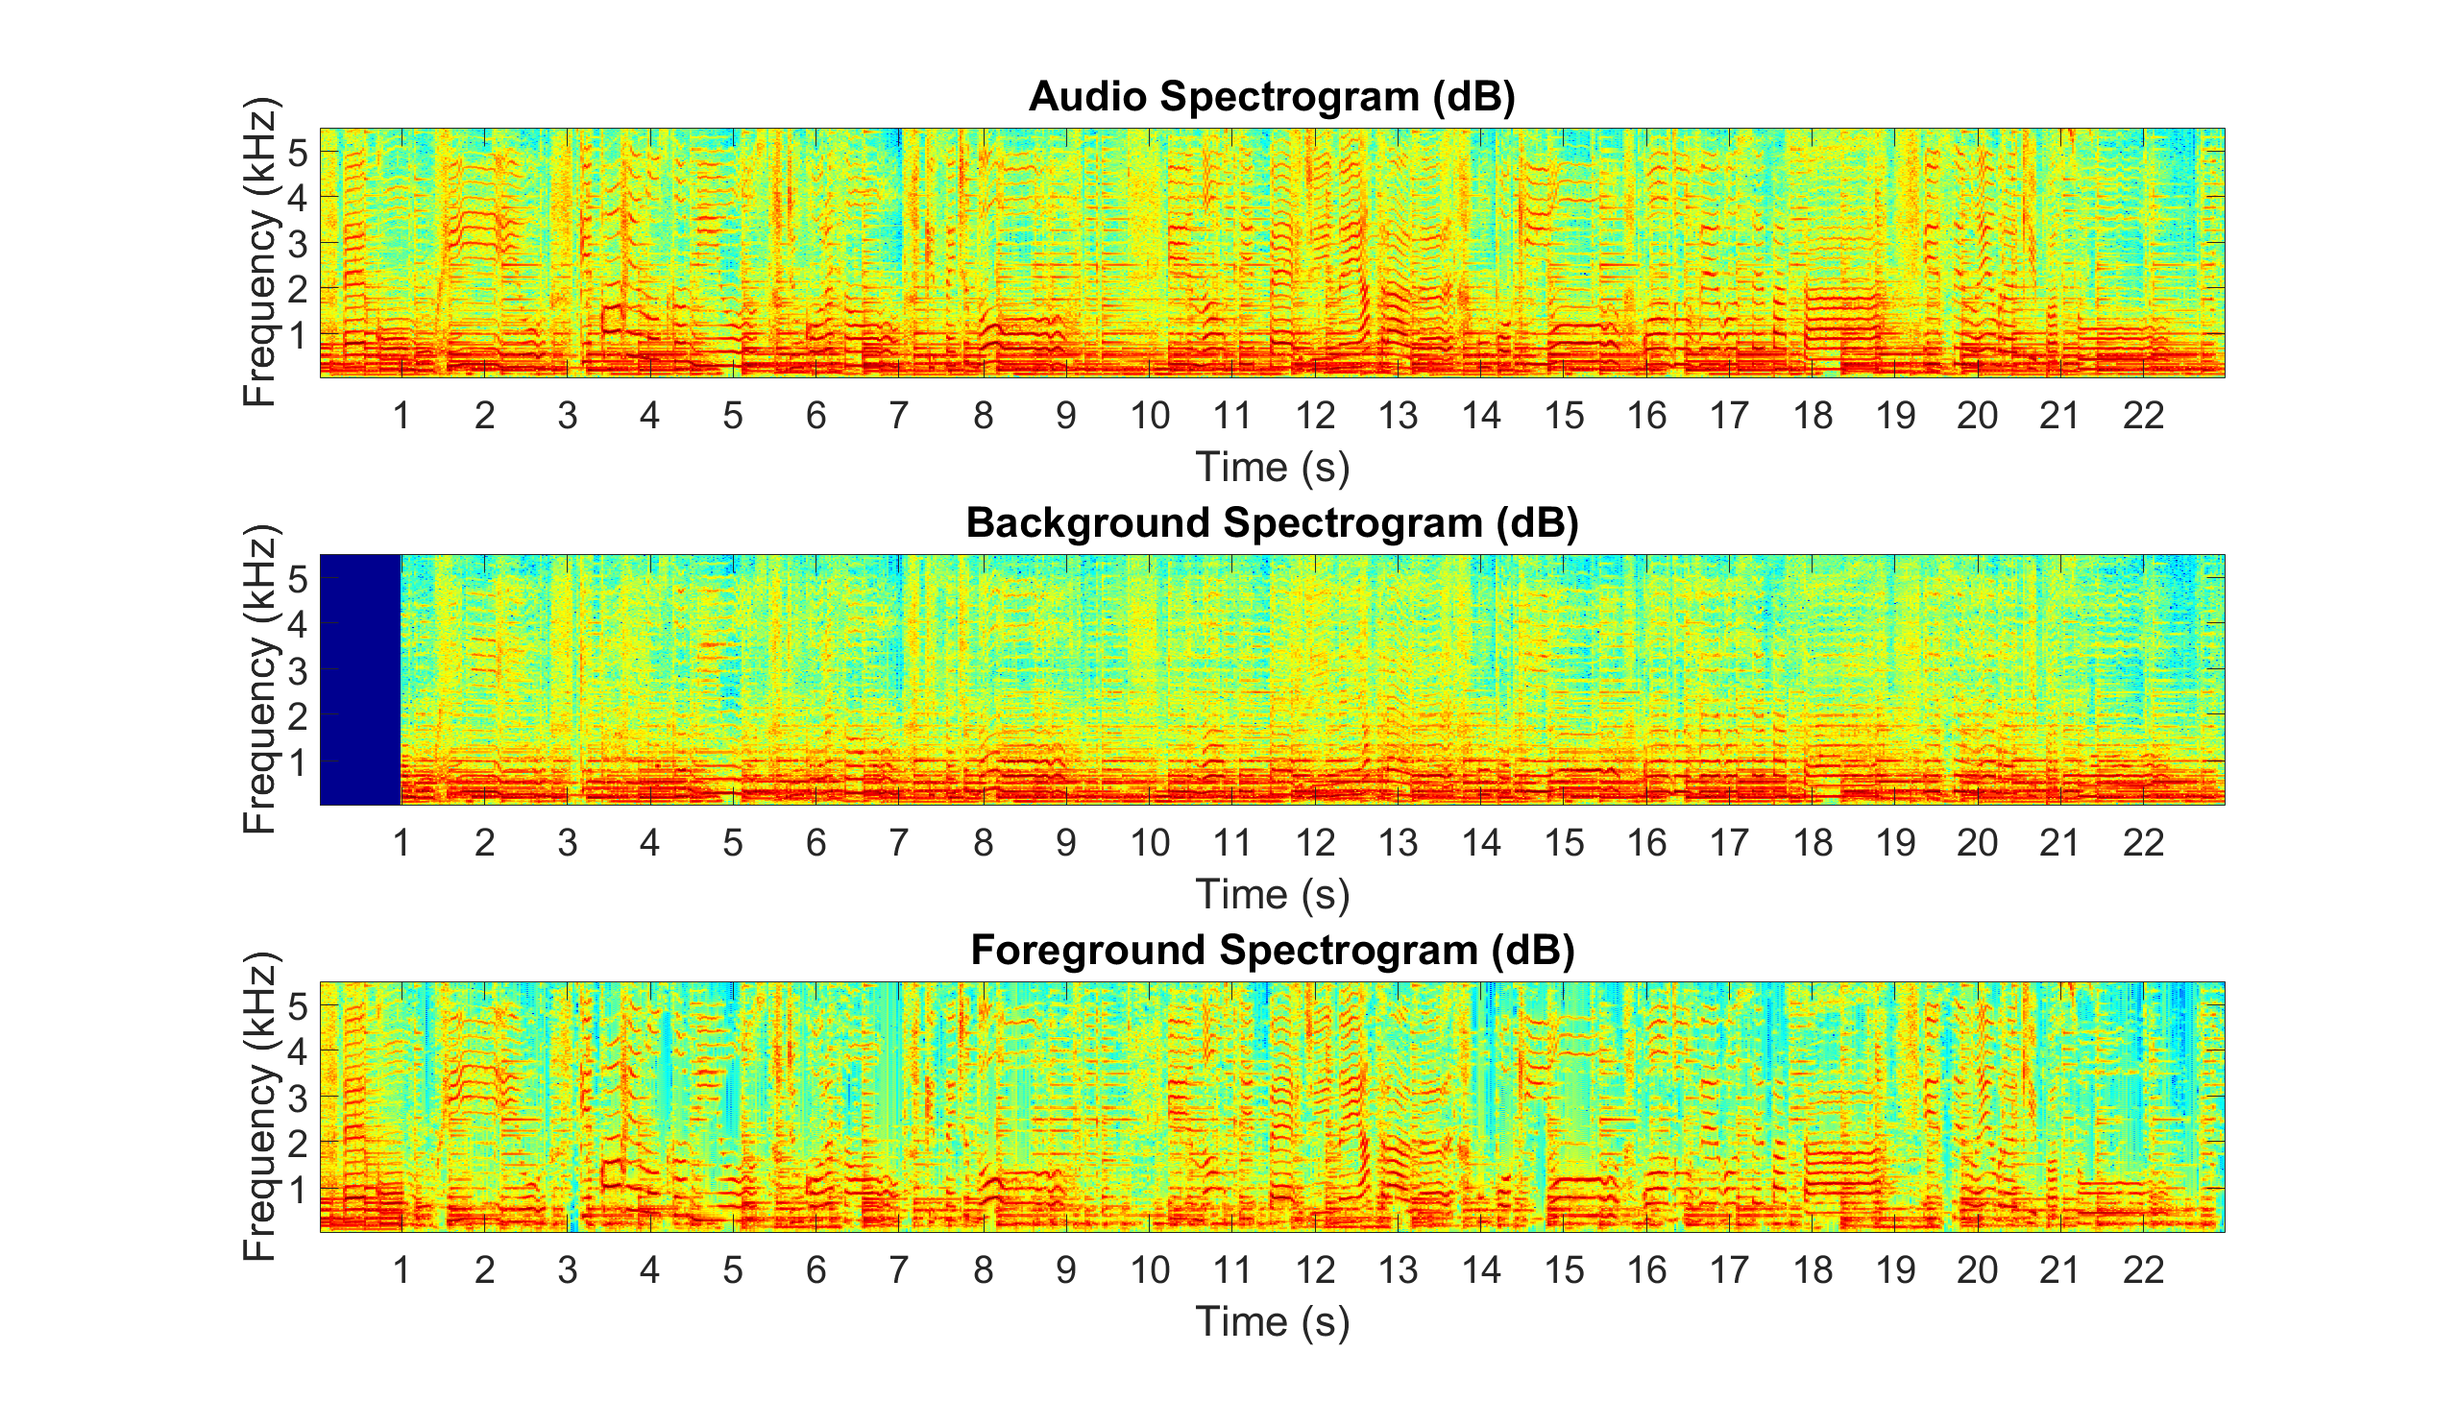
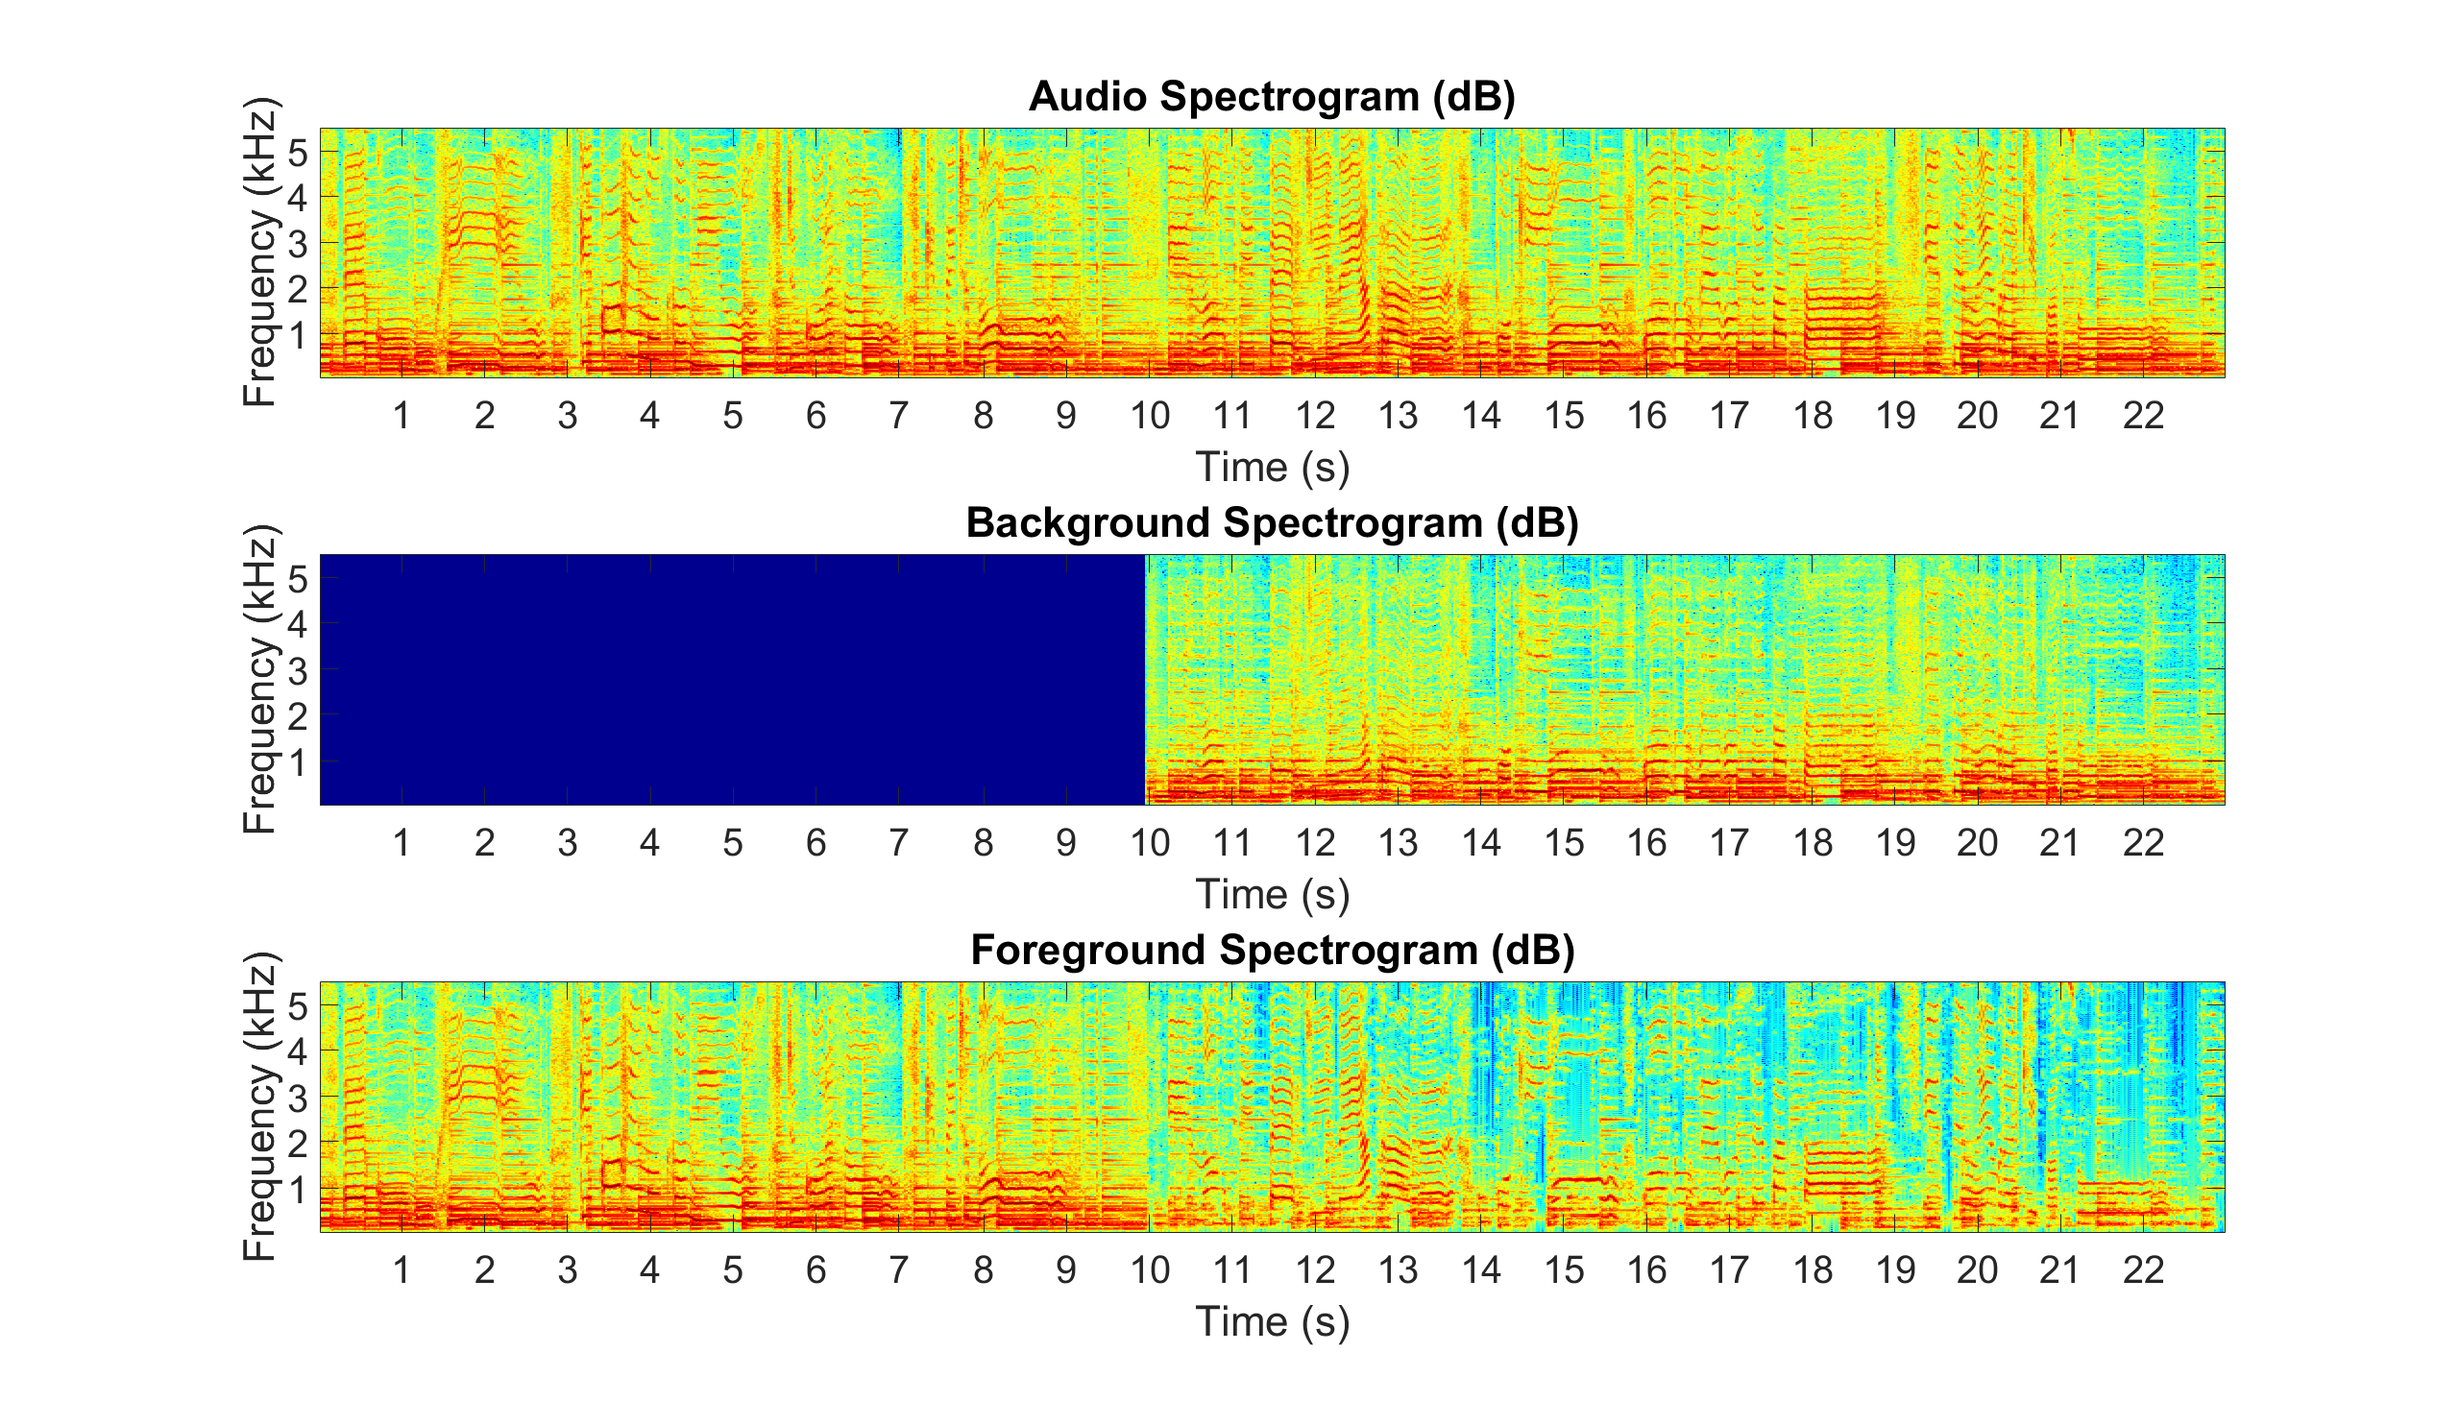
Updated Matlab repet.simonline.

Changed region(s): [[0.1562, 0.372, 0.9062, 0.5889], [0.125, 0.6819, 0.9062, 0.8679]]

diff --git a/repet.m b/repet.m
@@ -66,7 +66,7 @@ classdef repet
     %   http://zafarrafii.com
     %   https://github.com/zafarrafii
     %   https://www.linkedin.com/in/zafarrafii/
-    %   07/03/18
+    %   07/10/18
     
     % Defined properties
     properties (Access = private, Constant = true, Hidden = true)
@@ -108,7 +108,7 @@ classdef repet
         similarity_number = 100;
         
         % Buffer length in seconds (for online REPET-SIM)
-        buffer_length = 5;
+        buffer_length = 10;
             
     end
     
@@ -405,7 +405,7 @@ classdef repet
                     repeating_mask(2:cutoff_frequency+1,:) = 1;
                     
                     % Mirror the frequency channels
-                    repeating_mask = cat(1,repeating_mask,flipud(repeating_mask(2:end-1,:)));
+                    repeating_mask = cat(1,repeating_mask,repeating_mask(end-1:-1:2,:));
                     
                     % Estimated repeating background for the current channel
                     background_segment1 ...
@@ -578,7 +578,7 @@ classdef repet
                 repeating_mask(2:cutoff_frequency+1,:) = 1;
                 
                 % Mirror the frequency channels
-                repeating_mask = cat(1,repeating_mask,flipud(repeating_mask(2:end-1,:)));
+                repeating_mask = cat(1,repeating_mask,repeating_mask(end-1:-1:2,:));
                 
                 % Estimated repeating background for the current channel
                 background_signal1 = repet.istft(repeating_mask.*audio_stft(:,:,channel_index),window_function,step_length);
@@ -710,7 +710,7 @@ classdef repet
                 repeating_mask(2:cutoff_frequency+1,:) = 1;
                 
                 % Mirror the frequency channels
-                repeating_mask = cat(1,repeating_mask,flipud(repeating_mask(2:end-1,:)));
+                repeating_mask = cat(1,repeating_mask,repeating_mask(end-1:-1:2,:));
                 
                 % Estimated repeating background for the current channel
                 background_signal1 = repet.istft(repeating_mask.*audio_stft(:,:,channel_index),window_function,step_length);
@@ -792,75 +792,32 @@ classdef repet
             step_length = repet.steplength(window_length);
             
             % Number of time frames
-            number_times = ceil((window_length-step_length+number_samples)/step_length);
+            number_times = ceil((number_samples-window_length)/step_length+1);
             
-            % Initialize the STFT
-            audio_stft = zeros(window_length,number_times,number_channels);
+            % Buffer length in time frames
+            buffer_length = round((repet.buffer_length*sample_rate-window_length)/step_length+1);
             
-            % Loop over the channels
-            for channel_index = 1:number_channels
-                
-                % STFT of the current channel
-                audio_stft(:,:,channel_index) ...
-                    = repet.stft(audio_signal(:,channel_index),window_function,step_length);
-                
-            end
-            
-            % Buffer in time frames
-            buffer_length = round(repet.buffer_length*sample_rate/step_length);
-            
-            % Similarity distance in time frames
-            similarity_distance = round(repet.similarity_distance*sample_rate/step_length);
-            
-            % Cutoff frequency in frequency channels for the dual high-pass 
-            % filter of the foreground
-            cutoff_frequency = ceil(repet.cutoff_frequency*(window_length-1)/sample_rate);
-            
-            % Initialize background STFT
-            background_stft = zeros(window_length,number_times,number_channels);
+            % Initialize the buffer spectrogram
+            buffer_spectrogram = zeros(window_length/2+1,buffer_length,number_channels);
             
             % Open the wait bar
             wait_bar = waitbar(0,'Online REPET-SIM');
             
-            % Loop over the frames
-            for time_index = similarity_distance+2:number_times
+            % Loop over the time frames to compute the buffer spectrogram
+            % (the last frame will be the frame to be processed)
+            for time_index = 1:buffer_length-1
                 
-                % Magnitude spectrum of the frame being processing
-                audio_spectrum = abs(audio_stft(1:end/2+1,time_index,:));
-                
-                % Magnitude spectrum  of the past frames in the buffer
-                audio_buffer = abs(audio_stft(1:end/2+1,max(time_index-buffer_length+1,1):time_index,:));
-                
-                % Cosine similarity between the frame being processed and 
-                % the past frames in the buffer, for both channels
-                similarity_vector = repet.similaritymatrix(mean(audio_spectrum,3),mean(audio_buffer,3));
-                
-                % Find the indices of the similar frames using findpeaks
-                [~,similarity_indices] ...
-                    = repet.localmaxima(similarity_vector,repet.similarity_threshold,similarity_distance,repet.similarity_number);
+                % Sample index in the signal
+                sample_index = step_length*(time_index-1);
                 
                 % Loop over the channels
                 for channel_index = 1:number_channels
                     
-                    % Repeating spectrum for the frame being processed
-                    repeating_spectrum = median(audio_buffer(:,similarity_indices,channel_index),2);
+                    % Compute the FT of the segment
+                    buffer_ft = fft(audio_signal(1+sample_index:window_length+sample_index,channel_index).*window_function);
                     
-                    % Refine the repeating spectrum
-                    repeating_spectrum = min(audio_spectrum(:,:,channel_index),repeating_spectrum);
-                    
-                    % Repeating mask for the frame being processing
-                    repeating_mask = (repeating_spectrum+eps)./(audio_spectrum(:,:,channel_index)+eps);
-                    
-                    % High-pass filtering of the (dual) non-repeating 
-                    % foreground
-                    repeating_mask(2:cutoff_frequency+1,:) = 1;
-                    
-                    % Mirror the frequencies
-                    repeating_mask = cat(1,repeating_mask,flipud(repeating_mask(2:end-1)));
-                    
-                    % Apply the repeating mask to the STFT of the frame 
-                    % being processed
-                    background_stft(:,time_index,channel_index) = repeating_mask.*audio_stft(:,time_index,channel_index);
+                    % Derive the spectrum of the frame
+                    buffer_spectrogram(:,time_index,channel_index) = abs(buffer_ft(1:window_length/2+1));
                     
                 end
                 
@@ -869,22 +826,95 @@ classdef repet
                 
             end
             
+            % Zero-pad the audio signal at the end
+            audio_signal = [audio_signal;zeros((number_times-1)*step_length+window_length-number_samples,number_channels)];
+            
+            % Similarity distance in time frames
+            similarity_distance = round(repet.similarity_distance*sample_rate/step_length);
+            
+            % Cutoff frequency in frequency channels for the dual high-pass 
+            % filter of the foreground
+            cutoff_frequency = ceil(repet.cutoff_frequency*(window_length-1)/sample_rate);
+            
+            % Initialize the background signal
+            background_signal = zeros((number_times-1)*step_length+window_length,number_channels);
+
+            % Loop over the time frames to compute the background signal
+            for time_index = buffer_length:number_times
+                
+                % Sample index in the signal
+                sample_index = step_length*(time_index-1);
+                
+                % Time index of the current frame
+                current_index = mod(time_index-1,buffer_length)+1;
+                
+                % Initialize the FT of the current segment
+                current_ft = zeros(window_length,number_channels);
+                
+                % Loop over the channels
+                for channel_index = 1:number_channels
+                    
+                    % Compute the FT of the current segment
+                    current_ft(:,channel_index) ...
+                        = fft(audio_signal(1+sample_index:window_length+sample_index,channel_index).*window_function);
+                    
+                    % Derive the spectrum of the current frame and update
+                    % the buffer spectrogram
+                    buffer_spectrogram(:,current_index,channel_index) ...
+                        = abs(current_ft(1:window_length/2+1,channel_index));
+                    
+                end
+                
+                % Cosine similarity between the spectrum of the current 
+                % frame and the past frames, for all the channels
+                similarity_vector ...
+                    = repet.similaritymatrix(mean(buffer_spectrogram(:,current_index,:),3),mean(buffer_spectrogram,3));
+                
+                % Indices of the similar frames
+                [~,similarity_indices] ...
+                    = repet.localmaxima(similarity_vector,repet.similarity_threshold,similarity_distance,repet.similarity_number);
+                
+                % Loop over the channels
+                for channel_index = 1:number_channels
+                    
+                    % Compute the repeating spectrum for the current frame
+                    repeating_spectrum = median(buffer_spectrogram(:,similarity_indices,channel_index),2);
+                    
+                    % Refine the repeating spectrum
+                    repeating_spectrum = min(repeating_spectrum,buffer_spectrogram(:,current_index,channel_index));
+                    
+                    % Derive the repeating mask for the current frame
+                    repeating_mask = (repeating_spectrum+eps)./(buffer_spectrogram(:,current_index,channel_index)+eps);
+                    
+                    % High-pass filtering of the (dual) non-repeating 
+                    % foreground 
+                    repeating_mask(2:cutoff_frequency+1,:) = 1;
+                    
+                    % Mirror the frequencies
+                    repeating_mask = cat(1,repeating_mask,repeating_mask(end-1:-1:2));
+                    
+                    % Apply the mask to the FT of the current segment
+                    background_ft = repeating_mask.*current_ft(:,channel_index);
+                    
+                    % Inverse FT of the current segment
+                    background_signal(1+sample_index:window_length+sample_index,channel_index) ...
+                        = background_signal(1+sample_index:window_length+sample_index,channel_index)+real(ifft(background_ft));
+                    
+                end
+                
+                % Update the wait bar
+                waitbar(time_index/number_times,wait_bar);
+                
+            end
+            
+            % Truncate the signal to the original length
+            background_signal = background_signal(1:number_samples,:);
+            
+            % Un-window the signal (just in case)
+            background_signal = background_signal/sum(window_function(1:step_length:window_length));
+            
             % Close the wait bar
             close(wait_bar)
-            
-            %%% Background synthesis
-            % Initialize the background signal
-            background_signal = zeros(number_samples,number_channels);
-            
-            % Loop over the channels
-            for channel_index = 1:number_channels
-                
-                % Synthesize the repeating background signal
-                background_signal1 = repet.istft(background_stft(:,:,channel_index),window_function,step_length);
-                
-                % Truncate it to the original length
-                background_signal(:,channel_index) = background_signal1(1:number_samples);
-            end
             
         end
         
@@ -948,7 +978,7 @@ classdef repet
                 % overlap-add if proper window and step)
                 sample_index = step_length*(time_index-1);
                 audio_signal(1+sample_index:window_length+sample_index) ...
-                    = audio_signal(1+sample_index:window_length+sample_index)+audio_stft(:,time_index); 
+                    = audio_signal(1+sample_index:window_length+sample_index)+audio_stft(:,time_index);
                 
             end
             
@@ -956,7 +986,7 @@ classdef repet
             audio_signal = audio_signal(window_length-step_length+1:number_samples-(window_length-step_length));
             
             % Un-window the signal (just in case)
-            audio_signal = audio_signal/sum(window_function(1:step_length:window_length));  
+            audio_signal = audio_signal/sum(window_function(1:step_length:window_length));
             
         end
         
